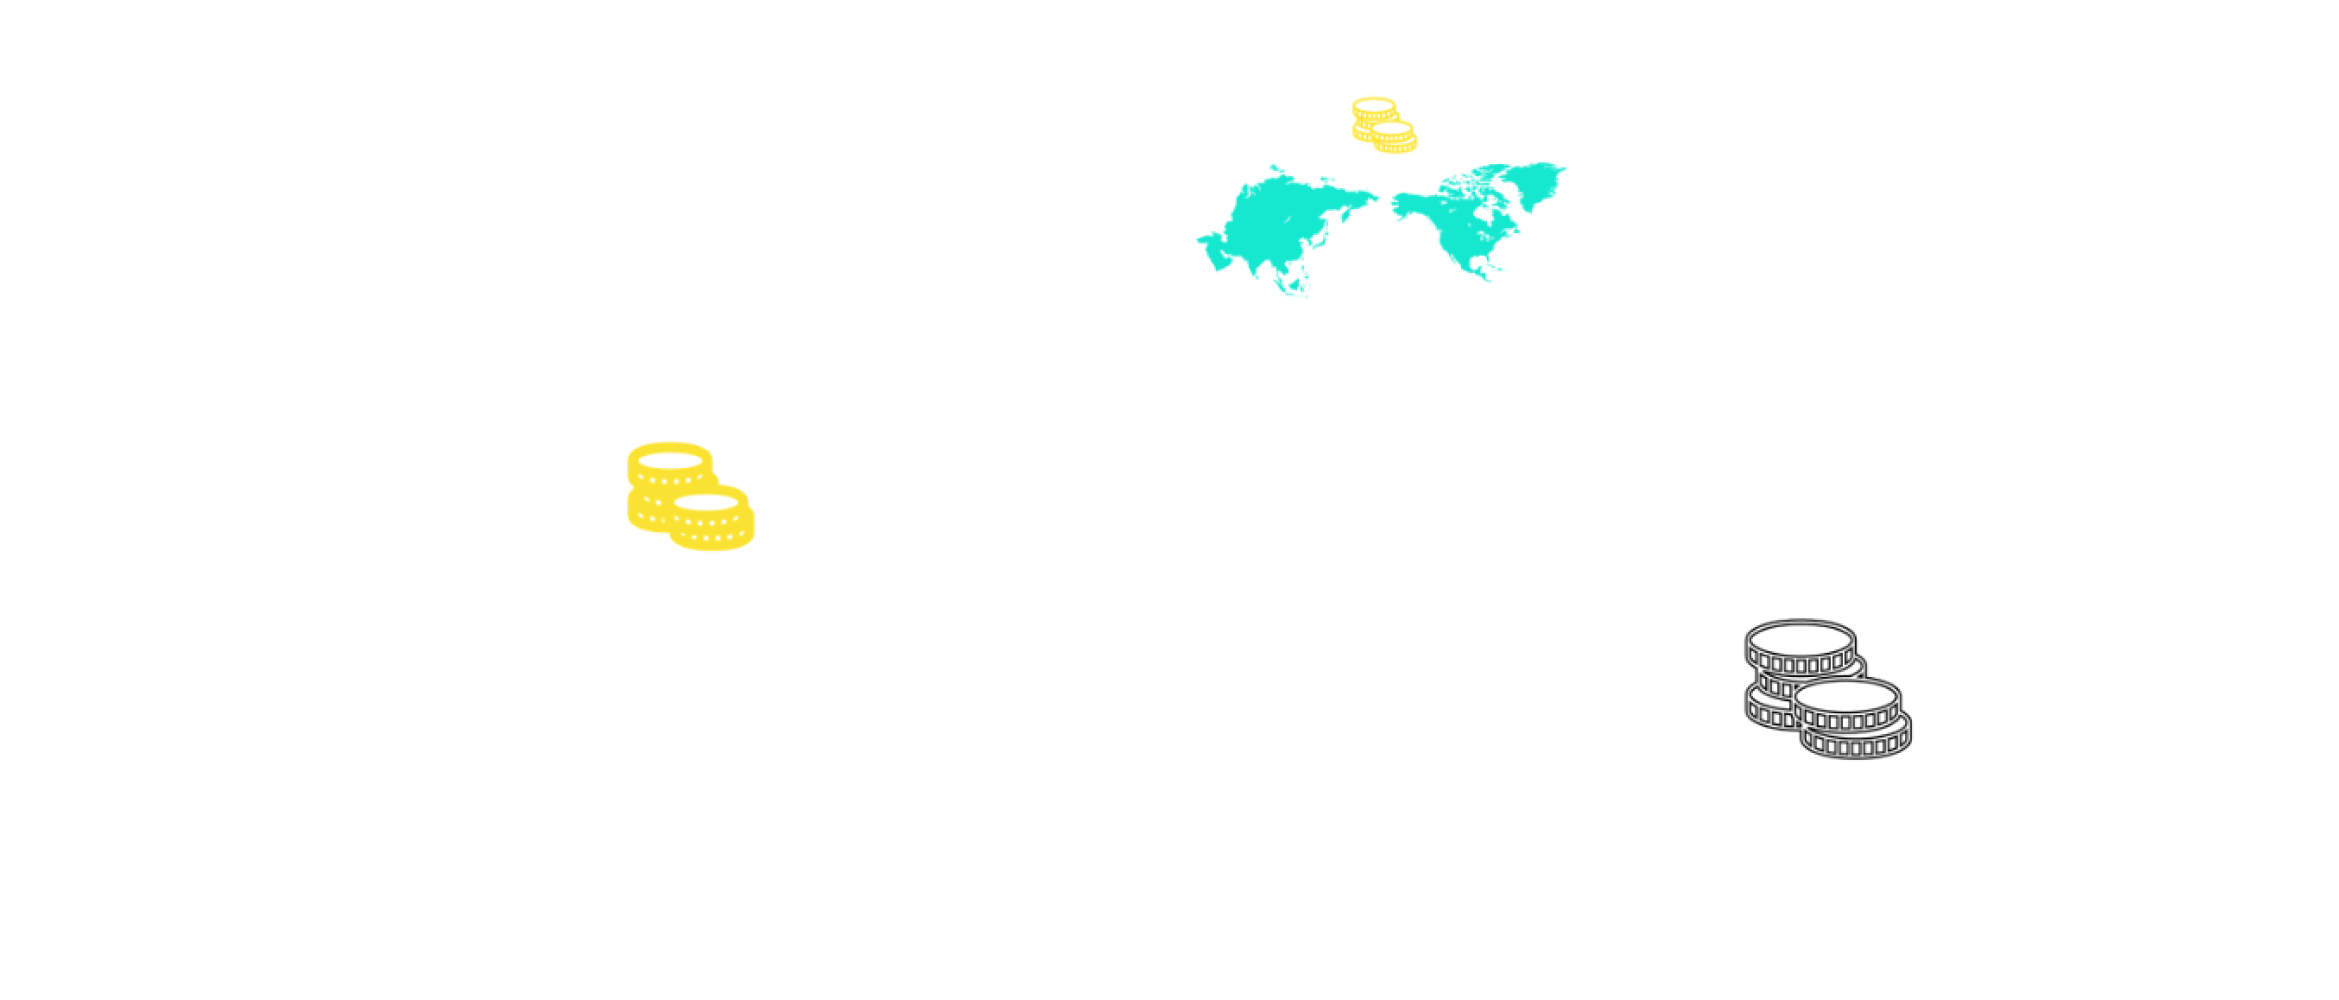
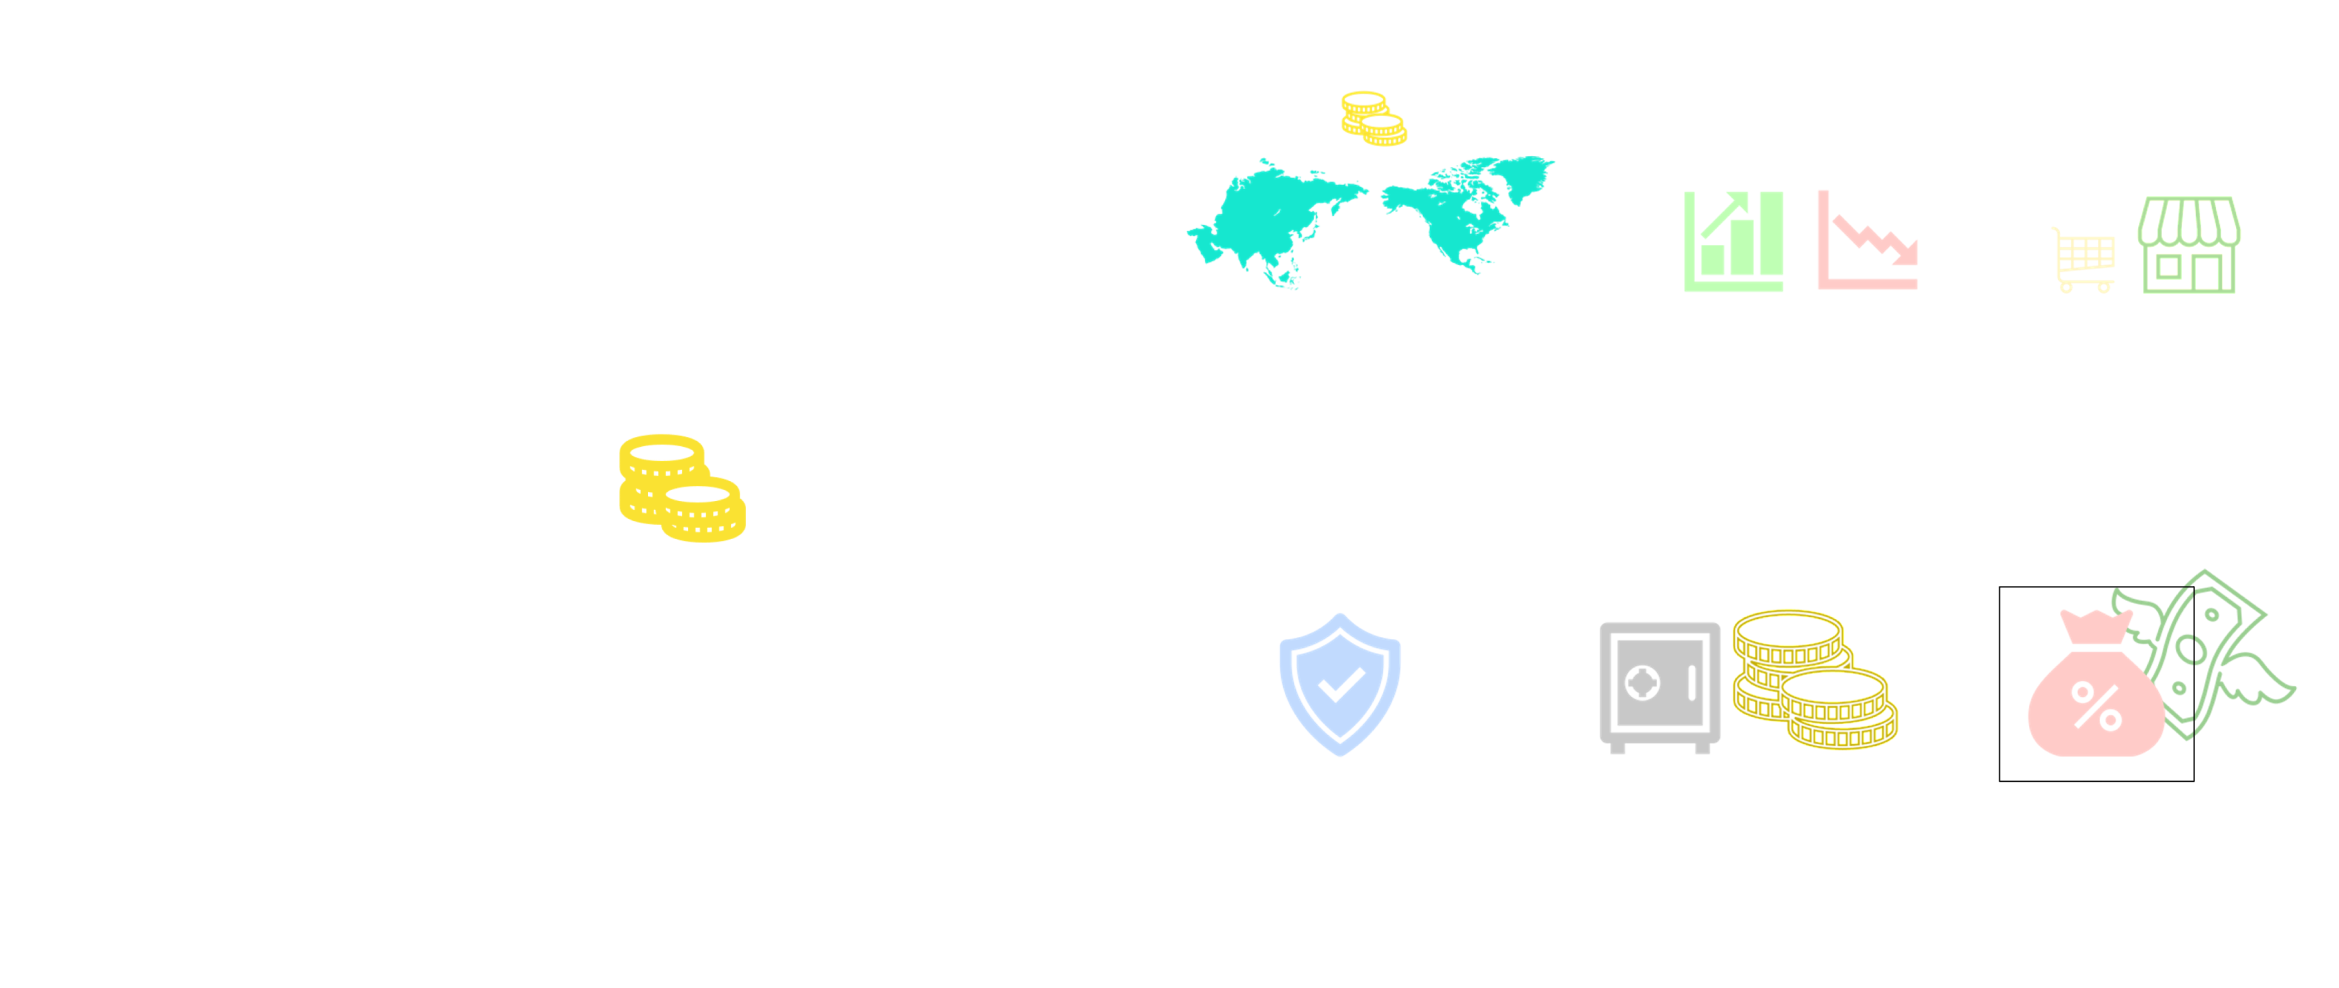
doko page

diff --git a/src/views/index/index.vue b/src/views/index/index.vue
@@ -1,10 +1,11 @@
 <template>
   <div class="relative bg-[#020619] " :class="!isMobile ? 'main-content' : 'main-content-bg'">
     <!-- class="absolute top-0" -->
-    <div class="video-box" :class="isMobile ? 'mobile-css' : ''">
-      <video autoplay loop muted width="100%" v-if="!isMobile">
+    <div class="video-box" :class="isMobile ? 'mobile-css' : ''" v-if="!isMobile">
+      <!-- <video autoplay loop muted width="100%" v-if="!isMobile">
         <source src="@/assets/images/video.mp4" type="video/mp4" />
-      </video>
+      </video> -->
+      <img src="@/assets/images/Home-5.png" />
     </div>
 
 
@@ -12,118 +13,64 @@
       <div class="max-w-[1440px] mx-auto">
         <div class="flex justify-between items-center header h-[82px] py-[20px] ">
           <div>
-            <img src="@/assets/images/mbake-logo.png" class="md:w-[140px] w-[110px]" />
+            <img src="@/assets/images/logo-d.png" class="md:w-[140px] w-[110px]" />
           </div>
-          <div v-if="!isMobile" class="flex items-center text-[#ffffff] text-[16px] text-right">
-            <div
-              class="md:mr-[50px] md:text-[20px] text-[16px] mr-[12px] cursor-pointer hover:text-[#F41FFF] md:font-bold font-semibold"
-              @click="clickJoin">$ABSC
-            </div>
-            <div @click="clickTwitter">
-              <!-- <img src="@/assets/images/Twitter.png" class="w-[22px] md:mr-[50px] mr-[24px] cursor-pointer" /> -->
-              <div
-                class=" md:mr-[50px] mr-[12px] cursor-pointer md:text-[20px] text-[16px] md:font-bold font-semibold hover:text-[#F41FFF]">
-                Twitter</div>
-            </div>
-            <div @click="clickTG">
-              <div
-                class=" md:mr-[50px] mr-[12px] cursor-pointer md:text-[20px] text-[16px] md:font-bold font-semibold hover:text-[#F41FFF]">
-                Telegram</div>
-              <!-- <img src="@/assets/images/TG.png" class="w-[22px] cursor-pointer" /> -->
-            </div>
-            <div @click="clickDiscord">
-              <div class=" cursor-pointer md:text-[20px] text-[16px] md:font-bold font-semibold hover:text-[#F41FFF]">
-                Discord</div>
-              <!-- <img src="@/assets/images/TG.png" class="w-[22px] cursor-pointer" /> -->
-            </div>
-          </div>
-          <div @click="open = true" v-if="isMobile">
+
+          <!-- <div @click="open = true" v-if="isMobile">
             <img src="@/assets/images/mobileShow.png" class="h-[24px]" />
-          </div>
+          </div> -->
 
         </div>
         <div class="text-center content md:mt-[200px] mt-[130px]">
-          <div class="md:text-[72px] text-[32px] font-bold mx-auto">
-            <span v-if="!isMobile" class="title-text">L1-2 INFRASTRUCTURE FOR <br /> ALL THE FULL CHAIN ASSETS</span>
-            <span v-if="isMobile" class="title-text">L1-2 INFRASTRUCTURE FOR ALL THE FULL CHAIN ASSETS</span>
+          <div class="md:text-[72px] text-[32px] font-bold mx-auto text-[#fff]">
+            LAYER M INFRA FOR OMNI ASSETS<br /> BASED ON THE INTERNET COMPUTER
           </div>
           <div class="md:justify-center md:flex mt-[40px]">
-            <a-button class="w-[178px] h-[37px] text-[#fff]  btn-box md:mr-[24px] ms:mx-auto mb-[24px] md:mb-[0px]"
+            <!-- <a-button class="w-[178px] h-[37px] text-[#fff]  btn-box md:mr-[24px] ms:mx-auto mb-[24px] md:mb-[0px]"
               @click="clickJoin">Join
               $ABSC</a-button>
             <a-anchor :affix="false" :items="[{
     key: '1',
     href: '#bmaker-demo-video',
     title: 'View demo',
-  }]" @change="onChange">
+  }]" @change="onChange"> 
               <a-button class="w-[178px] h-[37px] text-[#fff] mt-[40px] btn-box">View Demo</a-button>
-            </a-anchor>
-            <!-- <a-button class="w-[178px] h-[37px] text-[#fff] mt-[40px] btn-box" href="#bmaker-demo-video"
-              @click="onChange">View Demo</a-button> -->
+            </a-anchor>-->
+            <a-button class="w-[178px] h-[37px] text-[#fff] mt-[40px] btn-box">View Demo(soon)</a-button>
           </div>
         </div>
       </div>
-
-
-
-      <a-drawer :width="500" title="" placement="top" :open="open" @close="onClose" :closable="false"
-        rootClassName="bg-css">
-        <div class="flex justify-between">
-          <div>
-            <img src="@/assets/images/mbake-logo.png" class="w-[110px]" />
-          </div>
-          <div>
-            <CloseOutlined :style="{ fontSize: '24px', color: '#fff' }" @click="open = false" />
-          </div>
-        </div>
-        <div class="text-[18px] text-[#ffFfff] font-bold">
-          <div class=" mb-[32px] mt-[32px]" @click="clickJoin">$ABSC
-          </div>
-          <div @click="clickTwitter">
-            <div class=" mb-[32px]">
-              Twitter</div>
-          </div>
-          <div @click="clickTG">
-            <div class=" mb-[32px]">
-              Telegram</div>
-          </div>
-          <div @click="clickDiscord">
-            <div class="">
-              Discord</div>
-          </div>
-        </div>
-      </a-drawer>
-
     </div>
 
   </div>
-  <div class="bg-black px-[32px]">
+  <div class="bg-black px-[32px] md:pb-[100px] pb-[60px]">
     <div class="w-full text-[#ffffff] text-center md:pt-[120px] pt-[60px] max-w-[1428px] mx-auto">
       <div class="md:text-[48px] text-[24px] font-bold md:mb-[80px] mb-[48px]">
-        <div>Bmaker: BTC & Omni Chains Asset Infra<br />
+        <div>Dokodemo on the Internet Computer: BTC & Omni Chains Asset Infra
           Unlock infinite possibilities</div>
       </div>
       <div class="items-center justify-around md:flex">
         <img src="@/assets/images/Home-1.png" class="mx-auto md:w-[50%] w-[100%] md:mr-[50px] mb-[30px]" />
         <div class="md:text-[20px] text-[16px] text-left ">
-          · Omni chain infra L1-2 for decentralized stablecoin & all omni
-          chain
-          assets<br />
-          · BTC L1 Supporting the issuance of centralized stablecoins with excess collateral<br />
-          · Stablecoin can be used directly on EVM L1&L2 & Non EVM w/o coss chain bridge<br />
-          · Universal infra that can empower any asset with omni chain free consumption scenarios<br />
-          · Web 3 Massadotion/Web 2.5/ Old money friendly <br />
-          · Decentralized and fully on chain</div>
+          · Permissionless Verification on Bitcoin Original Network<br />
+          · “M” for Middle & Multiple｜SupportL1 & 2, EVM & non-EVM<br />
+          · Omni Asset Swift for Crypto assets<br />
+          · BC can earn Interest on Bitcoin L1! Without the need for warping / cross-chain bridge / any other
+          centralized solution<br />
+          · Omni-chains Swap/OTC/re-staking: One universal account / Secondly confirm / low gas fee / fully
+          decentralized environment<br />
+          · Finally! Omni-chains TVL expandability.An infrastructure helps all L1 & L2 to achieve interoperability! And
+          it's base on the strongest consensus in crypto business: the bitcoin original network</div>
       </div>
       <div class="md:mt-[120px] mt-[60px]">
         <div class="md:text-[48px] text-[24px] font-bold md:mb-[80px] mb-[48px]">
-          BTC Ecological Native /EVM&Non-EVM supportable,
-          Web2.5-Web3.0 financial application scenarios friendly
+          Application Scenarios of Dokodemo Infra & Omni chain assets
+          on the Internet Computer
         </div>
         <img src="@/assets/images/Home-2.png" class="md:w-[80%] w-[100%] mx-auto" />
 
       </div>
-      <div class="md:mt-[120px] mt-[60px]" id="bmaker-demo-video">
+      <!-- <div class="md:mt-[120px] mt-[60px]" id="bmaker-demo-video">
         <div class="md:text-[48px] text-[24px] font-bold md:mb-[80px] mb-[48px]">
           Bmaker Demo Video
         </div>
@@ -134,7 +81,7 @@
             allowfullscreen></iframe>
         </div>
 
-      </div>
+      </div> -->
     </div>
   </div>
   <div class="max-w-[1428px] text-[#ffffff] px-[32px] pt-[60px] pb-[80px] mx-auto">
@@ -216,7 +163,7 @@ onMounted(() => {
 
 .mobile-css {
   height: 100vh;
-  background: url('../../assets/images/mobile-bg-bmaker.jpg') no-repeat;
+  background: url('../../assets/images/Home-5-m.png') no-repeat;
   background-size: cover;
   background-position: center bottom;
   /* background-attachment: fixed; */
@@ -246,7 +193,7 @@ onMounted(() => {
   top: 0;
   left: 0;
   z-index: 2;
-  background: linear-gradient(180deg, rgba(124, 0, 131, .2) 0%, rgba(243, 30, 255, 0.42) 100%);
+  /* background: linear-gradient(180deg, rgba(124, 0, 131, .2) 0%, rgba(243, 30, 255, 0.42) 100%); */
 }
 
 .main-content-bg {
@@ -255,6 +202,8 @@ onMounted(() => {
   position: relative;
   top: 0;
   left: 0;
+  background: url("@/assets/images/Home-5-m.png") 100% 100% no-repeat;
+  background-size: cover;
 }
 
 .mobile-min-btn {
